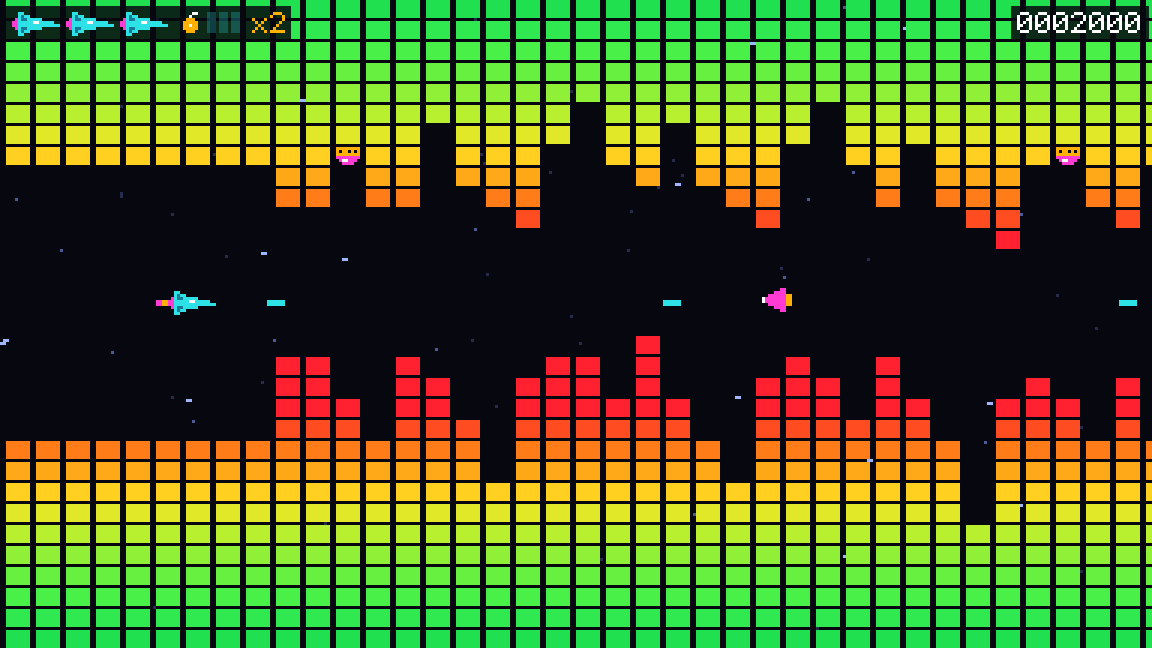
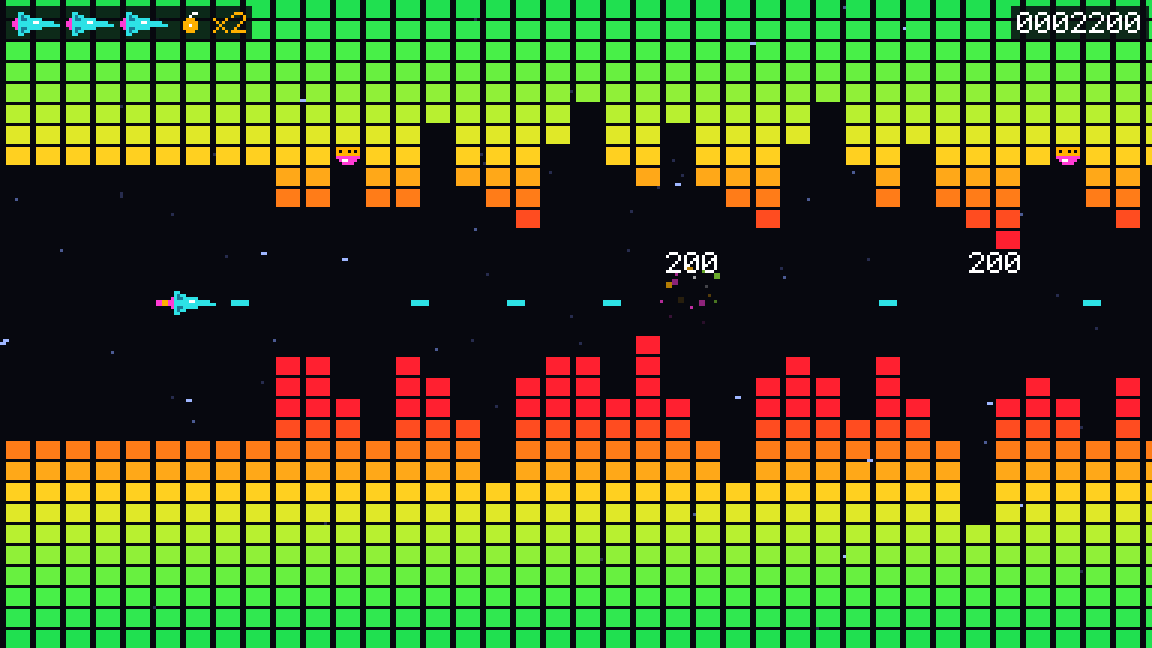
Let the gun spray again, and plan the missile as an air-to-air power-up
The gun is the standard weapon: back to 6 shots in flight, and the
HUD's shot pips are gone. Reloads belong to the bomb and to the missile,
a power-up on the meter with its own button that does area damage to
air targets, one per press. SIM_VERSION 7, golden hashes regenerated.

Claude-Session: https://claude.ai/code/session_01JHfHGCLy1xFvhSVxtBfjqe

diff --git a/packages/client/src/render/combat.ts b/packages/client/src/render/combat.ts
@@ -79,10 +79,7 @@ const BOMB_ICON_MAP = [
 /** The HUD bomb's empty part: it fills from the bottom as it reloads. */
 const BOMB_ICON_DIM = 0.3;
 const ICON_ROWS = BOMB_ICON_MAP.length;
-/** A HUD pip per shot slot, 3x7 px, filling as its shot crosses the screen. */
-const SHOT_PIP_WIDTH = 3;
-const SHOT_PIP_GAP = 1;
-const SHOT_PIP_DIM = 0.25;
+
 
 /** A nuke held, in the HUD. */
 const NUKE_MAP = [
@@ -194,14 +191,7 @@ export class CombatView {
   #nukes: Sprite[] = [];
   #bombIcon = new Sprite();
   #bombFill = new Sprite();
-  #shotPipBacks: Sprite[] = [];
-  #shotPips: Sprite[] = [];
-  /** Per shot slot: whether it was in flight at the last draw, its x then, and where it started (px). */
-  #shotSeen = new Uint8Array(MAX_SHOTS);
-  #shotLastX = new Float64Array(MAX_SHOTS);
-  #shotStartX = new Float64Array(MAX_SHOTS);
-  /** Each slot's reload, 0 to 1, sorted fullest first for drawing. */
-  #shotFill = new Float64Array(MAX_SHOTS);
+
   #lifeLost = new Explosion(SHIP_EXPLOSION);
   #lifeLostSample = -1;
   /** Sim tick and first possibly live enemy at the last draw, to find what changed since. */
@@ -233,7 +223,6 @@ export class CombatView {
     this.#nukeFlash.width = PLAYFIELD_WIDTH;
     this.#nukeFlash.height = PLAYFIELD_HEIGHT;
     this.#nukeFlash.visible = false;
-    this.#shotSeen.fill(0);
     this.hud.addChild(this.#nukeFlash);
     this.#livesBacking.tint = BACKGROUND;
     this.#livesBacking.alpha = 0.85;
@@ -250,19 +239,7 @@ export class CombatView {
     this.#bombIcon.texture = getTextures().bombIcon;
     this.#bombIcon.alpha = BOMB_ICON_DIM;
     this.hud.addChild(this.#multiplier, this.#bombIcon, this.#bombFill);
-    for (let i = 0; i < MAX_SHOTS; i++) {
-      const back = new Sprite(Texture.WHITE);
-      back.tint = CYAN;
-      back.alpha = SHOT_PIP_DIM;
-      back.width = SHOT_PIP_WIDTH;
-      back.height = ICON_ROWS;
-      const pip = new Sprite(Texture.WHITE);
-      pip.tint = CYAN;
-      pip.width = SHOT_PIP_WIDTH;
-      this.hud.addChild(back, pip);
-      this.#shotPipBacks.push(back);
-      this.#shotPips.push(pip);
-    }
+
     for (let i = 0; i < NUKE_ICONS; i++) {
       const icon = new Sprite(getTextures().nuke);
       icon.visible = false;
@@ -432,35 +409,7 @@ export class CombatView {
         : Math.floor(((BOMB_RELOAD_TICKS - reloadLeft) * ICON_ROWS) / BOMB_RELOAD_TICKS);
     this.#bombFill.texture = getTextures().bombFill[bombRows]!;
     this.#bombFill.position.set(bombX, iconY + ICON_ROWS - bombRows);
-    let pipX = bombX + BOMB_ICON_MAP[0]!.length + LIFE_ICON_GAP;
-    // Shot slots: free ones are full; one in flight fills as it crosses from where it started.
-    for (let s = 0; s < MAX_SHOTS; s++) {
-      if (state.shotActive[s] !== 1) {
-        this.#shotSeen[s] = 0;
-        this.#shotFill[s] = 1;
-        continue;
-      }
-      const x = state.shotX[s]! / Q8;
-      // A new shot in the slot: it wasn't in flight, or it is behind where the last one was.
-      if (this.#shotSeen[s] === 0 || x < this.#shotLastX[s]!) this.#shotStartX[s] = x;
-      this.#shotSeen[s] = 1;
-      this.#shotLastX[s] = x;
-      const start = this.#shotStartX[s]!;
-      const end = PLAYFIELD_WIDTH + SHOT_WIDTH / 2;
-      this.#shotFill[s] = end > start ? (x - start) / (end - start) : 1;
-    }
-    this.#shotFill.sort().reverse();
-    for (let i = 0; i < MAX_SHOTS; i++) {
-      const f = this.#shotFill[i]!;
-      const rows = f >= 1 ? ICON_ROWS : Math.floor(f * ICON_ROWS);
-      this.#shotPipBacks[i]!.position.set(pipX, iconY);
-      const pip = this.#shotPips[i]!;
-      pip.visible = rows > 0;
-      pip.height = rows;
-      pip.position.set(pipX, iconY + ICON_ROWS - rows);
-      pipX += SHOT_PIP_WIDTH + SHOT_PIP_GAP;
-    }
-    const afterBomb = pipX - SHOT_PIP_GAP + LIFE_ICON_GAP;
+    const afterBomb = bombX + BOMB_ICON_MAP[0]!.length + LIFE_ICON_GAP;
     const multiplier = scoreMultiplier(state.streak);
     this.#multiplier.visible = multiplier > 1;
     this.#multiplier.text = `x${multiplier}`;

diff --git a/tools/screenshots/shots.ts b/tools/screenshots/shots.ts
@@ -59,10 +59,11 @@ export const shots: Shot[] = [
       'A frame of play in an LED cavern. Columns of small square LED segments hang from the top edge and rise ' +
       'from the bottom edge, lit green at the screen edges through yellow and orange to red at their tips, ' +
       'leaving a dark passage across the middle. Two small magenta and amber turrets sit upside down on the ' +
-      'tips of the ceiling. A small cyan ship with a magenta engine flame flies on the left, with cyan shots ' +
-      'ahead of it, and a magenta enemy ship flies towards it from the right. Three small ship icons on a ' +
-      'dark panel in the top left corner show the lives left, followed by a small amber bomb icon, three ' +
-      'empty cyan bars for the shots in flight, and "x2" in amber; "0002000" in white in the top right corner is the score.',
+      'tips of the ceiling. A small cyan ship with a magenta engine flame flies on the left, with a row of cyan ' +
+      'shots ahead of it and a scatter of coloured particles where an enemy was just destroyed, with "200" in ' +
+      'white pixel digits above it and above another kill. Three small ship icons on a dark panel in the top ' +
+      'left corner show the lives left, followed by a small amber bomb icon and "x2" in amber; "0002200" in ' +
+      'white in the top right corner is the score.',
     caption: 'Pattern Break at 21.5 seconds into the test song on normal, with the ship flown by the autopilot.',
     usedIn: ['readme'],
   },
@@ -77,7 +78,7 @@ export const shots: Shot[] = [
       'tips of the floor and ceiling, and small magenta enemy ships fly in from the right and fire round ' +
       'magenta bullets. A small cyan ship on the left keeps firing cyan shots, drops a small amber bomb that ' +
       'bursts on the floor bars, and moves up and down to dodge. ' +
-      'Three ship icons in the top left corner show the lives left, followed by a bomb icon, three cyan bars that empty and refill as shots fly, and "x3" in amber, and the score ' +
+      'Three ship icons in the top left corner show the lives left, followed by a bomb icon and "x3" in amber, and the score ' +
       'in the top right corner counts up as each kill shows its points where the enemy was.',
     caption: 'Four seconds of the test song on normal, flown by the autopilot through the sim.',
     usedIn: ['readme'],

diff --git a/packages/core/src/sim/constants.ts b/packages/core/src/sim/constants.ts
@@ -39,12 +39,12 @@ export const START_LIVES = 3;
 export const RESPAWN_SAFE_TICKS = 240;
 
 /**
- * Holding fire shoots every 8 ticks (15 a second), with at most 3 shots in flight. A miss
- * keeps its slot until it leaves the screen and a hit frees it at once, so aiming beats
- * spraying (Brad, 2026-11-09; it was 6).
+ * Holding fire shoots every 8 ticks (15 a second), with at most 6 shots in flight. The gun
+ * is the standard weapon and sprays freely; the bomb and the missile power-up are the ones
+ * with a reload (Brad, 2026-11-09; 3 for one build).
  */
 export const SHOT_INTERVAL_TICKS = 8;
-export const MAX_SHOTS = 3;
+export const MAX_SHOTS = 6;
 /** Player shots fly right at 4 px per tick. */
 export const SHOT_SPEED_Q8 = 1024;
 export const SHOT_WIDTH = 6;

diff --git a/packages/core/test/sim.test.ts b/packages/core/test/sim.test.ts
@@ -202,7 +202,7 @@ describe('tick', () => {
 });
 
 describe('shots', () => {
-  it('fires from the nose every 8 ticks, 4 px per tick, at most 3 in flight', () => {
+  it('fires from the nose every 8 ticks, 4 px per tick, at most 6 in flight', () => {
     const level = enemyLevel([]);
     const s = createSimState();
     tick(level, s, InputBit.fire);
@@ -214,7 +214,7 @@ describe('shots', () => {
     expect(activeShots(s)).toBe(2);
     for (let i = 0; i < 60; i++) tick(level, s, InputBit.fire);
     expect(activeShots(s)).toBe(MAX_SHOTS);
-    expect(MAX_SHOTS).toBe(3);
+    expect(MAX_SHOTS).toBe(6);
   });
 
   it('pass through the walls, and destroy a turret with one hit', () => {

diff --git a/packages/core/src/version.ts b/packages/core/src/version.ts
@@ -13,10 +13,10 @@
  * lives (2026-11-09). 3 = score: kill points, the on-beat bonus, the streak multiplier and
  * the survival bonus (2026-11-09). 4 = turrets score 200, not 100 (2026-11-09). 5 = the
  * concussive bomb and the nuke (2026-11-09). 6 = 3 shots in flight, not 6, and a bomb per
- * press with a 1 s reload (2026-11-09).
+ * press with a 1 s reload (2026-11-09). 7 = 6 shots in flight again (2026-11-09).
  */
 export const GEN_VERSION = 4;
-export const SIM_VERSION = 6;
+export const SIM_VERSION = 7;
 
 /** Fixed simulation tick rate (docs/PLAN.md, "Simulation"). */
 export const TICK_HZ = 120;

diff --git a/docs/DEVELOPMENT.md b/docs/DEVELOPMENT.md
@@ -400,8 +400,9 @@ For the on-beat bonus the level also keeps every note's tick by instrument
 - **Collision:** `boxHitsTerrain()` tests a box against the solid part of every bar it
   overlaps horizontally: lit segments, plus peak dots where they are solid. Boxes against
   each other are half-open overlaps of centre and half size. Integer comparisons only.
-- **Shots:** holding fire shoots every 8 ticks from the ship's nose, at most 3 in flight
-  (`MAX_SHOTS`; 6 until 2026-11-09, which let a held button spray the screen),
+- **Shots:** holding fire shoots every 8 ticks from the ship's nose, at most 6 in flight
+  (`MAX_SHOTS`; 3 for one build on 2026-11-09, until Brad settled that the gun sprays
+  freely and only the bomb and missile reload),
   1024 Q8 (4 px) per tick to the right. A shot passes through the walls and stops on the
   first live enemy it overlaps (6x2 px against the enemy's hitbox).
 - **Enemies:** turrets (8x6 px) stay at their world x; tanks (12x7) move left 64 Q8 per tick
@@ -790,8 +791,7 @@ Run `pnpm dev` and open the URL it prints.
   play doesn't skip them. The game pauses when the window loses focus or the tab is hidden.
 - **Score:** top right in play. Each kill shows its points where the enemy was, amber when
   on the beat. After the lives come the bomb, which empties when one drops and fills
-  again over its reload, three pips for the shots, each filling as its shot crosses the
-  screen, the multiplier in amber once it is above 1, and an amber ring for each nuke held. Level
+  again over its reload, the multiplier in amber once it is above 1, and an amber ring for each nuke held. Level
   complete shows the score and the lives bonus, and in the arcade run the total of the
   levels finished; game over shows the score.
 - **Gamepad:** any pad that reports the Gamepad API's "standard" mapping
@@ -926,14 +926,11 @@ is added.
   for each enemy destroyed (8 at once at most) and the ship's explosion for a life lost,
   both timed in song time. It returns false on alternate 6-tick steps of the ship's safe
   time, which blinks the ship. The lives are ship icons on a dark panel in the top left,
-  followed by a bomb icon, three cyan 3x7 pips for the shot slots, the multiplier when it
-  is above 1, and a 7x7 amber ring per nuke held (3 at most); the score, 7 digits, is on a panel in the
+  followed by a bomb icon, the multiplier when it is above 1, and a 7x7 amber ring per nuke held (3 at most); the score, 7 digits, is on a panel in the
   top right and changes only when the score does. Each kill's points rise 8 px over 600 ms
   from where the enemy was (8 popups at once at most). The bomb icon is drawn dim, with
   its bottom rows bright: none while a bomb falls, then filling over the reload
-  (`state.bombReadyTick`), whole when one can drop. A shot pip is full while its slot is
-  free; for a shot in flight it fills with the share of the way from where the shot was
-  first drawn to the right edge, so a hit refills it at once. Full pips come first. The bomb is a 4x4 sprite; its burst
+  (`state.bombReadyTick`), whole when one can drop. The bomb is a 4x4 sprite; its burst
   is a 40-particle explosion over 600 ms, and a nuke flashes the playfield like the crash
   flash (25% white fading over 220 ms), under the HUD.
 - **Starfield** (`starfield.ts`): 112 stars in three layers placed by `seededRandom(seed)`,

diff --git a/docs/ROADMAP.md b/docs/ROADMAP.md
@@ -225,17 +225,15 @@ help.
       floor or an enemy, destroying everything within 24 px, tanks included. One per
       press, one in the air, 1 s to reload; the HUD's bomb fills as it reloads. Never more
       than one tank is on screen at once, on any of the 27 levels.
-- [x] At most 3 shots in flight, not 6, so a miss costs time and aiming beats spraying.
-      Three HUD pips fill as their shots cross the screen and refill on a hit.
 - [x] The nuke button destroys every enemy on screen and clears the bullets. One charges
       per 10 kills on the beat, up to 3, shown after the lives.
 - [x] Keys X or K (bomb) and V or ; (nuke); pad B and X. The autopilot bombs, and nukes
       when it can't dodge.
-- [x] `SIM_VERSION` 5, then 6 for the reload and the shot cap, with the golden hashes
-      regenerated.
+- [x] `SIM_VERSION` 5, then 6 for the reload (and a 3-shot cap, dropped again in 7: the
+      gun is the standard weapon), with the golden hashes regenerated.
 
 **Acceptance:** Brad finds the bomb useful against tanks without making shooting pointless,
-timing and aim matter more than holding buttons, and the nuke is worth earning; `pnpm check` passes.
+timing matters more than holding the bomb button, and the nuke is worth earning; `pnpm check` passes.
 
 **Docs:** `PLAN.md` ("Simulation"), `DEVELOPMENT.md` ("Simulation", "Playing it",
 "Renderer").
@@ -243,8 +241,8 @@ timing and aim matter more than holding buttons, and the nuke is worth earning; 
 ### Still to come
 
 - [ ] Capsules from whole formations and the power-up meter: boost (an afterburner on its
-      own button), double shot, laser, option pod, shield. Input grows to 16 bits for the
-      boost button.
+      own button), missile (air to air, its own button), double shot, laser, option pod,
+      shield. Input grows to 16 bits for the boost and missile buttons.
 - [ ] Pads and arcade sticks without the Gamepad API's standard mapping, which need a
       way to assign their buttons.
 - [ ] Replay recording and playback.
@@ -358,9 +356,11 @@ These need Brad's answer before the work that depends on them. Don't guess.
 - **Lives:** three; a hit costs one and the ship comes back at the playhead (2026-11-09).
 - **M2 comes in slices,** enemies and shooting first, each play-tested (2026-11-09).
 - **Power-ups:** shooting down a whole formation of ships drops a capsule. The meter is
-  boost, double shot, laser, option pod, shield. Boost is an afterburner on its own button:
-  the first buy unlocks it and more buys add fuel, since a permanent speed-up made the
-  ship too hard to steer. Losing a life loses every power-up bought (2026-11-09).
+  boost, missile, double shot, laser, option pod, shield. Boost is an afterburner on its
+  own button: the first buy unlocks it and more buys add fuel, since a permanent speed-up
+  made the ship too hard to steer. The missile is the bomb for air to air: its own button,
+  one per press, area damage, a reload. The gun is the standard weapon and sprays freely.
+  Losing a life loses every power-up bought (2026-11-09).
 - **Bomb:** its own button from the start; a concussive bomb falls to the floor and
   destroys the tanks and turrets near where it bursts (2026-11-09).
 - **Nuke:** a last resort on its own button that clears the screen of enemies and

diff --git a/README.md b/README.md
@@ -2,7 +2,7 @@
 
 [![License: MIT](https://img.shields.io/badge/License-MIT-yellow.svg)](LICENSE)
 
-<img src="docs/img/gameplay-clip.gif" width="768" alt="Four seconds of play in an LED cavern. Columns of square LED segments, lit green at the screen edges through yellow and orange to red at their tips, hang from the top and rise from the bottom and scroll from right to left, one column per row of the song. Small magenta and amber turrets ride in on the tips of the floor and ceiling, and small magenta enemy ships fly in from the right and fire round magenta bullets. A small cyan ship on the left keeps firing cyan shots, drops a small amber bomb that bursts on the floor bars, and moves up and down to dodge. Three ship icons in the top left corner show the lives left, followed by a bomb icon, three cyan bars that empty and refill as shots fly, and "x3" in amber, and the score in the top right corner counts up as each kill shows its points where the enemy was.">
+<img src="docs/img/gameplay-clip.gif" width="768" alt="Four seconds of play in an LED cavern. Columns of square LED segments, lit green at the screen edges through yellow and orange to red at their tips, hang from the top and rise from the bottom and scroll from right to left, one column per row of the song. Small magenta and amber turrets ride in on the tips of the floor and ceiling, and small magenta enemy ships fly in from the right and fire round magenta bullets. A small cyan ship on the left keeps firing cyan shots, drops a small amber bomb that bursts on the floor bars, and moves up and down to dodge. Three ship icons in the top left corner show the lives left, followed by a bomb icon and "x3" in amber, and the score in the top right corner counts up as each kill shows its points where the enemy was.">
 
 A side-scrolling neon tunnel shooter where every level is built from a song. The songs are
 tracker modules, often called mods: music files made in a tracker, a program that arranges

diff --git a/docs/PLAN.md b/docs/PLAN.md
@@ -199,8 +199,8 @@ every bar of every generated level.
   a preallocated state in place and allocates nothing. Positions are Q24.8 fixed-point.
 - Sim time is derived from the audio clock (see "Audio and timing"). If the render loop hitches, run several
   ticks to catch up. Never skip ticks.
-- Player ship: 8-way movement, a fire button (hold for auto-fire: 15 shots a second, up to 3
-  in flight, so a miss costs time and a hit doesn't), a bomb button and a nuke button. Shots pass through the LED walls, so turrets on
+- Player ship: 8-way movement, a fire button (hold for auto-fire: 15 shots a second, up to 6
+  in flight; the gun sprays freely, and the bomb and missile have reloads), a bomb button and a nuke button. Shots pass through the LED walls, so turrets on
   the bar tips can be hit, and stop on the first enemy they hit. Turrets and ships take one
   hit, tanks three.
 - Collision: ship against lit LED segments, enemies, and enemy bullets. Integer AABB
@@ -220,8 +220,9 @@ every bar of every generated level.
   never doubled.
 - A Gradius-style power-up meter, drawn as a VU meter. Shooting down a whole formation
   drops a capsule, capsules advance the meter, and a button press buys the highlighted
-  upgrade: boost (an afterburner on its own button, more fuel with each buy), double shot,
-  laser, option pod, shield. Losing a life loses every upgrade bought (2026-11-09).
+  upgrade: boost (an afterburner on its own button, more fuel with each buy), missile (air
+  to air area damage on its own button, with a reload), double shot, laser, option pod,
+  shield. Losing a life loses every upgrade bought (2026-11-09).
 - **Scoring (2026-11-09):** a shot-down ship is 100, a turret 200, a tank 300; ramming scores
   nothing. The **on-beat bonus** doubles a kill within 25 ms of a note of that enemy's
   instrument. A **streak multiplier** adds 1 for every 10 kills without losing a life, up
